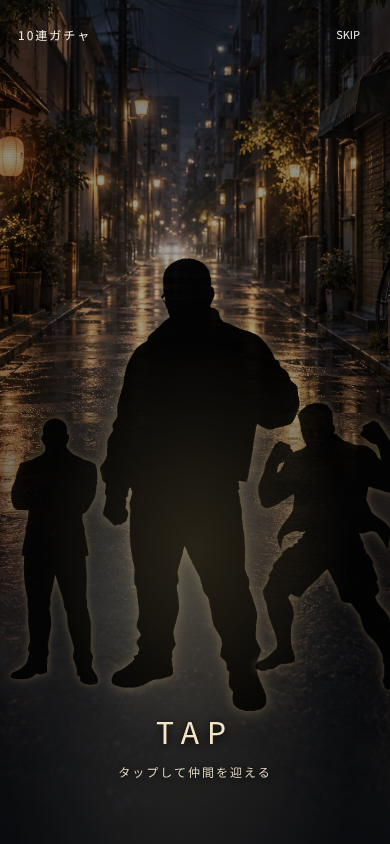
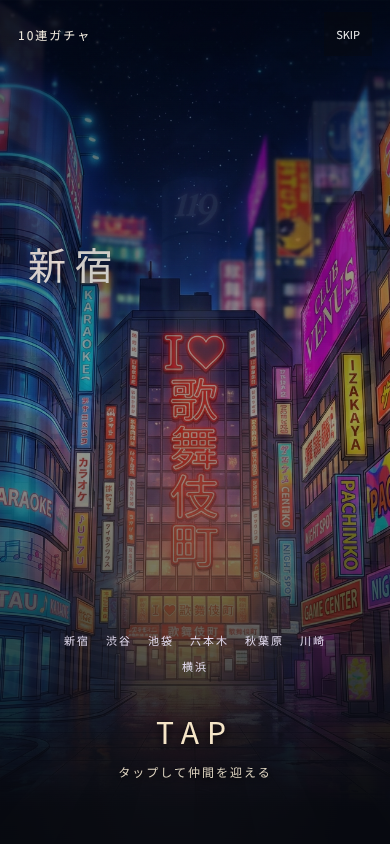
Refine gacha with seven neon towns, canonical badges and SSR arrival transition

diff --git a/src/app/components/gacha/CharacterGachaPresentation.tsx b/src/app/components/gacha/CharacterGachaPresentation.tsx
@@ -8,6 +8,7 @@ import OutlawButton from "../ui/OutlawButton";
 import { CHARACTERS_MASTER } from "@/utils/game_constants";
 import { getCharacterLocationBackground } from "@/utils/characterVisualAssets";
 import { resolveCharacterGachaQuote } from "@/domain/presentation/characterGachaQuotes";
+import { getRarityBadgeAsset, getAcquisitionBadgeAsset } from "@/utils/rarityAssets";
 import "./CharacterGachaPresentation.css";
 
 export type CharacterGachaResult = {
@@ -22,7 +23,7 @@ type Props = {
   onClose: () => void;
   playSound: (sound: "GACHA_REVEAL" | "GACHA_SR" | "GACHA_SSR") => void;
 };
-type Stage = "OPENING" | "BURST" | "QUOTE" | "REVEAL" | "SETTLED" | "SUMMARY";
+type Stage = "OPENING" | "BURST" | "QUOTE" | "IGNITION" | "REVEAL" | "SETTLED" | "SUMMARY";
 const motionQuery = "(prefers-reduced-motion: reduce)";
 const subscribeMotion = (notify: () => void) => {
   const media = window.matchMedia(motionQuery);
@@ -34,7 +35,17 @@ const town = (result: CharacterGachaResult) => getCharacterLocationBackground(CH
 const outcome = (result: CharacterGachaResult) => result.convertReward === "新規獲得" ? "NEW" : result.convertReward || "獲得";
 const number = (value: number | undefined) => typeof value === "number" && Number.isFinite(value) ? value.toLocaleString("ja-JP") : "—";
 
-const ARRIVAL_BACKGROUND = "/gacha/arrival/tokyo-alley.webp";
+const CITIES = ["新宿", "渋谷", "池袋", "六本木", "秋葉原", "川崎", "横浜"];
+const ARRIVAL_BACKGROUND = getCharacterLocationBackground("渋谷");
+const acquisitionBadge = (result: CharacterGachaResult) => getAcquisitionBadgeAsset(result.convertReward === "新規獲得" ? "NEW" : "AWAKENING", result.awakeningLevel);
+
+function ResultBadges({ result }: { result: CharacterGachaResult }) {
+  const acquired = acquisitionBadge(result);
+  return <span className="cg-existing-badges">
+    <img className="cg-rarity-badge" src={getRarityBadgeAsset(result.rarity)} alt={result.rarity} />
+    {acquired && <img className="cg-acquisition-badge" src={acquired} alt={result.convertReward === "新規獲得" ? "NEW" : `覚醒 +${result.awakeningLevel}`} />}
+  </span>;
+}
 
 // 全画面のデコード完了後にのみ描画。子要素ごとの非同期表示を作らない。
 function StandingArt({ result, variant = "reveal", background = false }: { result: CharacterGachaResult; variant?: "reveal" | "gacha-result-compact"; background?: boolean }) {
@@ -55,8 +66,8 @@ function StandingArt({ result, variant = "reveal", background = false }: { resul
 export default function CharacterGachaPresentation(props: Props) {
   const [textOnly, setTextOnly] = useState(false);
   const readiness = useScreenReadiness({ assets: [
-    { src: ARRIVAL_BACKGROUND },
-    ...props.results.flatMap((result) => [{ src: result.imageUrl }, { src: town(result) }]),
+    ...CITIES.map((city) => ({ src: getCharacterLocationBackground(city) })),
+    ...props.results.flatMap((result) => [{ src: result.imageUrl }, { src: town(result) }, { src: getRarityBadgeAsset(result.rarity) }, ...(acquisitionBadge(result) ? [{ src: acquisitionBadge(result)! }] : [])]),
   ] });
   if (textOnly) return <div className="cg-overlay"><section className="cg-loading" role="dialog" aria-modal="true" aria-label="獲得結果">
     <h2>獲得結果</h2><ol>{props.results.map((result, index) => <li key={index}>{result.rarity} {result.name} / {outcome(result)}</li>)}</ol>
@@ -131,7 +142,7 @@ function ReadyCharacterGacha({ results, tutorial, onReveal, onClose, playSound, 
   useEffect(() => {
     if (stage !== "QUOTE" || !sceneReady) return;
     if (reducedMotion || letters >= quote.length) {
-      const timer = window.setTimeout(() => setStage("REVEAL"), reducedMotion ? 0 : 600);
+      const timer = window.setTimeout(() => setStage(reducedMotion ? "REVEAL" : "IGNITION"), reducedMotion ? 0 : 600);
       return () => window.clearTimeout(timer);
     }
     const timer = window.setTimeout(() => setLetters((length) => length + 1), 38);
@@ -139,9 +150,15 @@ function ReadyCharacterGacha({ results, tutorial, onReveal, onClose, playSound, 
   }, [stage, letters, quote, reducedMotion, sceneReady]);
 
   useEffect(() => {
+    if (stage !== "IGNITION" || !sceneReady) return;
+    const timer = window.setTimeout(() => setStage("REVEAL"), reducedMotion ? 0 : 480);
+    return () => window.clearTimeout(timer);
+  }, [stage, sceneReady, reducedMotion]);
+
+  useEffect(() => {
     if (stage !== "REVEAL" || !sceneReady) return;
     callbacks.current.playSound(rarity === "SSR" ? "GACHA_SSR" : rarity === "SR" ? "GACHA_SR" : "GACHA_REVEAL");
-    const timer = window.setTimeout(() => setStage("SETTLED"), reducedMotion ? 0 : rarity === "SSR" ? 1050 : rarity === "SR" ? 750 : 450);
+    const timer = window.setTimeout(() => setStage("SETTLED"), reducedMotion ? 0 : rarity === "SSR" ? 1500 : rarity === "SR" ? 750 : 450);
     return () => window.clearTimeout(timer);
   }, [stage, rarity, index, reducedMotion, sceneReady]);
 
@@ -156,8 +173,8 @@ function ReadyCharacterGacha({ results, tutorial, onReveal, onClose, playSound, 
     if (now - lastTap.current < 220) return;
     lastTap.current = now;
     if (stage === "OPENING") { announce(); setStage("BURST"); }
-    else if (stage === "QUOTE") { if (letters < quote.length) setLetters(quote.length); else setStage("REVEAL"); }
-    else if (stage === "REVEAL") setStage("SETTLED");
+    else if (stage === "QUOTE") { if (letters < quote.length) setLetters(quote.length); else setStage(reducedMotion ? "REVEAL" : "IGNITION"); }
+    else if (stage === "IGNITION" || stage === "REVEAL") setStage("SETTLED");
     else if (stage === "SETTLED") {
       if (reviewing || index + 1 >= results.length) { setReviewing(false); setStage("SUMMARY"); }
       else { const next = results[index + 1]; setIndex(index + 1); setLetters(0); setStage(next.rarity.toUpperCase() === "SSR" && resolveCharacterGachaQuote(next.characterId) ? "QUOTE" : "REVEAL"); }
@@ -184,7 +201,8 @@ function ReadyCharacterGacha({ results, tutorial, onReveal, onClose, playSound, 
       <div className="cg-atmosphere" aria-hidden="true" />
       {stage !== "SUMMARY" && <header className="cg-top"><span>{opening ? `${results.length}連ガチャ` : `${index + 1} / ${results.length}`}</span><button type="button" onClick={skip}>{reviewing ? "一覧へ戻る" : "SKIP"}</button></header>}
       {opening ? <button type="button" className="cg-opening" onClick={tap} disabled={stage === "BURST"} aria-label="ガチャ結果を開く">
-        <div className="cg-approach" aria-hidden="true">{results.slice(0, 3).map((result, i) => <img key={i} src={result.imageUrl} alt="" style={{ "--person": i } as React.CSSProperties} />)}</div>
+        <div className="cg-city-tour" aria-hidden="true">{CITIES.map((city, i) => <div className="cg-city-scene" key={city} style={{ "--city-index": i } as React.CSSProperties}><img src={getCharacterLocationBackground(city)} alt="" /><span>{city}</span></div>)}</div>
+        <div className="cg-city-names" aria-label="7つの街">{CITIES.map((city) => <span key={city}>{city}</span>)}</div>
         <div className="cg-headlight" aria-hidden="true" />
         <div className="cg-opening-copy"><strong>TAP</strong><small>タップして仲間を迎える</small></div>
       </button> : stage === "SUMMARY" ? <section className="cg-summary">
@@ -193,15 +211,16 @@ function ReadyCharacterGacha({ results, tutorial, onReveal, onClose, playSound, 
         <div className={`cg-grid ${results.length === 1 ? "cg-single" : ""}`}>
           {results.map((result, i) => <button type="button" key={`${result.characterId}-${i}`} onClick={() => showDetail(i)} className={`cg-mini cg-${result.rarity.toLowerCase()}`} data-result-index={i} data-character-id={result.characterId} aria-label={`${result.rarity} ${result.name} ${outcome(result)} 詳細を見る`}>
             <StandingArt result={result} variant="gacha-result-compact" />
-            <b className="cg-mini-rarity">{result.rarity}</b><span className="cg-mini-name">{result.name}</span><small className={outcome(result) === "NEW" ? "cg-new" : ""}>{outcome(result)}</small>
+            <ResultBadges result={result} /><span className="cg-mini-name">{result.name}</span><small className={outcome(result) === "NEW" ? "cg-new" : ""}>{outcome(result)}</small>
           </button>)}
         </div>
         <p className="cg-summary-hint">仲間をタップして詳細を見る</p>
         <OutlawButton variant="primary" className="cg-continue" onClick={() => callbacks.current.onClose()}>{tutorial ? "編成へ進む" : "ガチャへ戻る"}</OutlawButton>
-      </section> : <button type="button" className={`cg-reveal ${stage === "SETTLED" ? "is-settled" : ""}`} onClick={tap} aria-label={stage === "QUOTE" ? "セリフを表示して登場演出へ" : `${current.name} ${reviewing ? "一覧へ戻る" : "タップして次へ"}`} data-character-id={stage === "QUOTE" ? undefined : current.characterId} data-presentation-state={stage === "QUOTE" ? "SSR_QUOTE" : `${rarity}_REVEAL`}>
+      </section> : <button type="button" className={`cg-reveal ${stage === "SETTLED" ? "is-settled" : ""}`} onClick={tap} aria-label={stage === "QUOTE" || stage === "IGNITION" ? "セリフを表示して登場演出へ" : `${current.name} ${reviewing ? "一覧へ戻る" : "タップして次へ"}`} data-character-id={stage === "QUOTE" || stage === "IGNITION" ? undefined : current.characterId} data-presentation-state={stage === "QUOTE" ? "SSR_QUOTE" : stage === "IGNITION" ? "SSR_IGNITION" : `${rarity}_REVEAL`}>
         {stage === "QUOTE" ? <div className="cg-quote-intro"><span aria-hidden="true">SSR</span><blockquote aria-label={quote}><span aria-hidden="true">{quote.slice(0, reducedMotion ? quote.length : letters)}</span></blockquote><small>{letters < quote.length ? "タップで全文表示" : "TAP"}</small></div> : <div className="cg-reveal-content" key={index}>
           <div className="cg-portrait"><StandingArt result={current} /></div>
-          <div className="cg-reveal-copy"><div className="cg-rarity-line"><b>{rarity}</b><span className={outcome(current) === "NEW" ? "cg-new" : ""}>{outcome(current)}</span></div>
+          {rarity === "SSR" && <div className="cg-ssr-transition" aria-hidden="true"><i /><i /><i /><blockquote>{quote}</blockquote></div>}
+          <div className="cg-reveal-copy"><div className="cg-rarity-line"><ResultBadges result={current} /><span className={outcome(current) === "NEW" ? "cg-new" : ""}>{outcome(current)}</span></div>
             <h2>{current.name}</h2><p className="cg-origin">{[current.role, current.attribute].filter(Boolean).join(" / ")}</p>
             {quote && <blockquote>{quote}</blockquote>}
             <dl className="cg-stats" aria-label="初期パラメータ">{(["hp", "atk", "def"] as const).map((key) => <div key={key}><dt>{key.toUpperCase()}</dt><dd>{number(current[key])}</dd></div>)}</dl>

diff --git a/tests/e2e/gacha-character-v3.spec.ts b/tests/e2e/gacha-character-v3.spec.ts
@@ -7,12 +7,15 @@ for (const viewport of [{ width: 390, height: 844 }, { width: 320, height: 568 }
     const shell = page.locator('[data-gacha-presentation="arrival"]');
     await expect(shell).toHaveAttribute("data-stage", "OPENING");
     await expect(page.locator(".cg-card-back")).toHaveCount(0);
-    await expect(page.locator(".cg-approach img")).toHaveCount(3);
+    await expect(page.locator(".cg-approach")).toHaveCount(0);
+    await expect(page.locator(".cg-city-scene img")).toHaveCount(7);
     await page.getByRole("button", { name: "SKIP", exact: true }).click();
     await expect(shell).toHaveAttribute("data-stage", "SUMMARY");
     const cards = page.locator(".cg-mini");
     await expect(cards).toHaveCount(10);
-    expect(await cards.locator(".cg-mini-rarity").allTextContents()).toEqual(["N", "R", "SR", "SSR", "N", "SR", "R", "SSR", "R", "SR"]);
+    await expect(cards.nth(5).locator(".cg-acquisition-badge")).toHaveAttribute("src", "/ui/rarity/badge-awakening-plus-1.png");
+    await expect(cards.nth(5).locator("small")).toContainText("覚醒進捗 +1");
+    expect(await cards.locator(".cg-rarity-badge").evaluateAll((nodes) => nodes.map((node) => node.getAttribute("alt")))).toEqual(["N", "R", "SR", "SSR", "N", "SR", "R", "SSR", "R", "SR"]);
     const rects = await cards.evaluateAll((nodes) => nodes.map((node) => ({x: node.getBoundingClientRect().x, y: node.getBoundingClientRect().y})));
     expect(new Set(rects.slice(0, 5).map((rect) => rect.y)).size).toBe(1);
     expect(rects[5].y).toBeGreaterThan(rects[0].y);
@@ -20,7 +23,7 @@ for (const viewport of [{ width: 390, height: 844 }, { width: 320, height: 568 }
     const expectedId = await cards.nth(7).getAttribute("data-character-id");
     await cards.nth(7).click();
     await expect(page.locator(".cg-reveal")).toHaveAttribute("data-character-id", expectedId!);
-    await expect(page.locator(".cg-reveal blockquote")).not.toBeEmpty();
+    await expect(page.locator(".cg-reveal-copy>blockquote")).not.toBeEmpty();
     await page.getByRole("button", { name: "一覧へ戻る", exact: true }).click();
     await expect(cards).toHaveCount(10);
     await page.getByRole("button", { name: "編成へ進む" }).click();
@@ -59,15 +62,35 @@ test("N/R/SR advance directly; fast taps complete animation without skipping car
   await reveal.dblclick();
   await expect(page.locator(".cg-shell")).toHaveAttribute("data-stage", "SETTLED");
   await expect(page.locator(".cg-top>span")).toHaveText("1 / 10");
-  await expect(reveal.locator("blockquote")).not.toBeEmpty();
+  await expect(reveal.locator(".cg-reveal-copy>blockquote")).not.toBeEmpty();
   await page.clock.runFor(250);
   await reveal.click();
   await expect(page.locator(".cg-top>span")).toHaveText("2 / 10");
   await page.clock.runFor(800);
   await reveal.click();
   await expect(page.locator(".cg-top>span")).toHaveText("3 / 10");
-  await expect(reveal.locator("blockquote")).not.toBeEmpty();
+  await expect(reveal.locator(".cg-reveal-copy>blockquote")).not.toBeEmpty();
   await expect(page.locator(".gacha-character-logo-gate")).toHaveCount(0);
+});
+
+test("SSR quote ignites before identity reveal and existing badges appear", async ({ page }) => {
+  await page.goto("/qa/presentation?scenario=gacha-character-v3&single=true&rarity=SSR");
+  await page.clock.install();
+  await page.getByRole("button", { name: "ガチャ結果を開く", exact: true }).click();
+  await page.clock.runFor(650);
+  await expect(page.locator(".cg-shell")).toHaveAttribute("data-stage", "QUOTE");
+  await page.locator(".cg-reveal").click();
+  await page.clock.runFor(610);
+  await expect(page.locator(".cg-shell")).toHaveAttribute("data-stage", "IGNITION");
+  await expect(page.locator(".cg-reveal")).not.toHaveAttribute("data-character-id");
+  await expect(page.locator(".cg-portrait")).toBeHidden();
+  await expect(page.locator(".cg-ssr-transition")).toBeVisible();
+  await page.clock.runFor(490);
+  await expect(page.locator(".cg-shell")).toHaveAttribute("data-stage", "REVEAL");
+  await expect(page.locator(".cg-rarity-badge")).toHaveAttribute("src", "/ui/rarity/rarity-badge-ssr.png");
+  await page.clock.runFor(1510);
+  await expect(page.locator(".cg-shell")).toHaveAttribute("data-stage", "SETTLED");
+  await expect(page.locator(".cg-ssr-transition")).toBeHidden();
 });
 
 test("reduced motion and keyboard keep controls reachable", async ({ page }) => {
@@ -91,7 +114,7 @@ test("cold images gate the entire scene and arrival animation", async ({ page })
   await expect(page.locator(".cg-city, .cg-approach, .cg-reveal")).toHaveCount(0);
   release();
   await expect(page.locator(".cg-shell")).toHaveAttribute("data-stage", "OPENING");
-  expect(await page.locator(".cg-approach img").evaluateAll((images) => images.every((image) => (image as HTMLImageElement).complete && (image as HTMLImageElement).naturalWidth > 0))).toBe(true);
+  expect(await page.locator(".cg-city-scene img").evaluateAll((images) => images.every((image) => (image as HTMLImageElement).complete && (image as HTMLImageElement).naturalWidth > 0))).toBe(true);
   await page.getByRole("button", { name: "SKIP", exact: true }).click();
   await expect(page.locator(".cg-summary")).toBeVisible();
   expect(await page.locator(".cg-summary img").evaluateAll((images) => images.every((image) => (image as HTMLImageElement).complete && (image as HTMLImageElement).naturalWidth > 0))).toBe(true);
@@ -99,14 +122,14 @@ test("cold images gate the entire scene and arrival animation", async ({ page })
 });
 
 test("background failure supports image-only retry and text results", async ({ page }) => {
-  await page.route("**/gacha/arrival/tokyo-alley.webp", (route) => route.abort());
+  await page.route("**/bg/bg_street_yokohama.jpg", (route) => route.abort());
   await page.goto("/qa/presentation?scenario=gacha-character-v3");
   await expect(page.getByRole("status")).toHaveText("画像を読み込めませんでした");
   await expect(page.locator(".cg-city")).toHaveCount(0);
-  await page.unroute("**/gacha/arrival/tokyo-alley.webp");
+  await page.unroute("**/bg/bg_street_yokohama.jpg");
   await page.getByRole("button", { name: "画像を再読み込み" }).click();
   await expect(page.locator(".cg-shell")).toHaveAttribute("data-stage", "OPENING");
-  await page.route("**/gacha/arrival/tokyo-alley.webp", (route) => route.abort());
+  await page.route("**/bg/bg_street_yokohama.jpg", (route) => route.abort());
   await page.reload();
   await page.getByRole("button", { name: "獲得結果を文字で確認" }).click();
   await expect(page.locator(".cg-loading li")).toHaveCount(10);

diff --git a/src/app/components/gacha/CharacterGachaPresentation.css b/src/app/components/gacha/CharacterGachaPresentation.css
@@ -57,3 +57,42 @@
 .cg-city{width:100%;height:100%;object-fit:cover}
 .cg-waiting{visibility:hidden}.cg-waiting *{animation-play-state:paused!important}
 .cg-scene-loading{position:absolute;inset:0;margin:auto;z-index:1}
+
+/* 既存7街の背景を短いクロスフェードで巡る。見切るまで待つ必要はない。 */
+.cg-city-tour{position:absolute;inset:0;pointer-events:none}
+.cg-city-scene{position:absolute;inset:0;opacity:0;animation:cg-city-cycle 8.4s linear infinite;animation-delay:calc(var(--city-index) * 1.2s)}
+.cg-city-scene:first-child{opacity:1}
+.cg-city-scene img{width:100%;height:100%;object-fit:cover;filter:brightness(.66) saturate(1.1)}
+.cg-city-scene:after{content:"";position:absolute;inset:0;background:linear-gradient(0deg,#070910 4%,transparent 50%,#03071155)}
+.cg-city-scene>span{position:absolute;left:28px;top:28%;z-index:1;font-size:38px;letter-spacing:9px;text-shadow:0 0 24px #000;color:#f4efe6}
+.cg-city-names{position:relative;z-index:2;display:flex;flex-wrap:wrap;justify-content:center;gap:10px 16px;max-width:300px;margin-bottom:35px;font-size:11px;letter-spacing:2px;color:#e0d9ed}
+.cg-headlight{background:radial-gradient(ellipse at 50% 55%,color-mix(in srgb,var(--cg-accent) 30%,transparent),transparent 60%)}
+.cg-stage-burst .cg-city-tour{animation:cg-city-depart .62s ease-in both}
+.cg-existing-badges{display:flex;align-items:center;justify-content:center;gap:6px;min-height:24px}
+.cg-existing-badges img{object-fit:contain;display:block}
+.cg-rarity-badge{width:64px;height:40px}.cg-acquisition-badge{width:60px;height:36px}
+.cg-mini .cg-existing-badges{gap:1px;height:25px;min-height:25px;margin-top:2px}
+.cg-mini .cg-rarity-badge{width:48%;height:25px}.cg-mini .cg-acquisition-badge{width:48%;height:24px}
+.cg-rarity-line .cg-existing-badges{justify-content:flex-start;flex-shrink:0}
+.cg-ssr-transition{display:none;position:absolute;inset:0;z-index:3;pointer-events:none;overflow:hidden}
+.cg-stage-ignition .cg-ssr-transition,.cg-ssr.cg-stage-reveal .cg-ssr-transition{display:block}
+.cg-stage-ignition .cg-portrait,.cg-stage-ignition .cg-reveal-copy{visibility:hidden;animation:none}
+.cg-ssr-transition blockquote{position:absolute;inset:24% 28px auto;color:#f9df9e;text-align:center;font-size:25px;line-height:1.85}
+.cg-stage-ignition .cg-ssr-transition blockquote{animation:cg-quote-away .48s ease-in both}
+.cg-stage-reveal .cg-ssr-transition blockquote{display:none}
+.cg-ssr-transition i{position:absolute;inset:-20%;opacity:0;background:linear-gradient(115deg,transparent 43%,#ecd08288 49%,#ffffdebb 50%,#a687e677 52%,transparent 58%);mix-blend-mode:screen}
+.cg-stage-ignition .cg-ssr-transition i:first-child{animation:cg-neon-sweep .48s ease-in both}
+.cg-ssr.cg-stage-reveal .cg-ssr-transition i:nth-child(2){animation:cg-neon-sweep .8s ease-out both}
+.cg-ssr.cg-stage-reveal .cg-ssr-transition i:nth-child(3){background:radial-gradient(ellipse at 50% 30%,#e6c88b66,transparent 65%);animation:cg-impact-glow .9s ease-out both}
+.cg-ssr.cg-stage-reveal .cg-portrait{animation:cg-premium-arrive 1.15s cubic-bezier(.16,.7,.22,1) both}
+.cg-ssr.cg-stage-reveal .cg-rarity-line,.cg-ssr.cg-stage-reveal h2{animation:cg-copy .4s .45s both}
+.cg-ssr.cg-stage-reveal .cg-stats{animation:cg-copy .4s .95s both}
+.cg-stage-ignition .cg-city{animation:cg-city-charge .48s ease-in both}
+@keyframes cg-city-cycle{0%,13%{opacity:1}16%,97%{opacity:0}100%{opacity:1}}
+@keyframes cg-city-depart{to{transform:scale(1.1);filter:brightness(1.5);opacity:0}}
+@keyframes cg-quote-away{to{opacity:0;transform:translateY(-8px);filter:blur(3px)}}
+@keyframes cg-neon-sweep{0%{opacity:0;transform:translateX(-65%)}35%{opacity:.9}100%{opacity:0;transform:translateX(65%)}}
+@keyframes cg-impact-glow{from{opacity:.8}to{opacity:0}}
+@keyframes cg-city-charge{to{filter:brightness(1.15) saturate(1.4)}}
+@keyframes cg-premium-arrive{from{opacity:0;transform:translateY(20px) scale(1.06);filter:brightness(1.8)}35%{opacity:1}to{opacity:1;transform:none;filter:brightness(1)}}
+@media(prefers-reduced-motion:reduce){.cg-city-scene{animation:none!important;opacity:0}.cg-city-scene:first-child{opacity:1}.cg-ssr-transition{display:none!important}.cg-shell *{animation:none!important}}

diff --git a/tests/e2e/m9-tutorial.spec.ts b/tests/e2e/m9-tutorial.spec.ts
@@ -152,7 +152,7 @@ async function revealTutorialTenPull(page: import("@playwright/test").Page, capt
     await expect(reveal.locator(".cg-stats dt")).toHaveText(["HP", "ATK", "DEF"]);
     await expect.poll(() => reveal.locator(".cg-stats dd").allTextContents()).not.toContain("—");
     await expect(reveal).not.toContainText(/SPD|LUK|戦闘力/);
-    await expect(reveal.locator("blockquote")).not.toBeEmpty();
+    await expect(reveal.locator(".cg-reveal-copy>blockquote")).not.toBeEmpty();
     await expect(reveal.locator(".cg-rarity-line>span")).not.toBeEmpty();
     await expect(page.locator(".cg-city")).toHaveAttribute("src", /bg_street_/);
     if (await reveal.getAttribute("data-presentation-state") === "SSR_REVEAL") ssrCount += 1;
@@ -493,7 +493,7 @@ test("free gacha presents one CTA, feedback, result assets, and formation connec
     await page.screenshot({ path: test.info().outputPath(`m9-1-gacha-result-${width}.png`), fullPage: true });
   }
   await expect(page.locator(".cg-mini .character-presentation-gacha-result-compact")).toHaveCount(10);
-  await expect(page.locator(".cg-mini .cg-mini-rarity")).toHaveCount(10);
+  await expect(page.locator(".cg-mini .cg-rarity-badge")).toHaveCount(10);
   await expect(page.locator(".cg-mini").filter({ hasText: "GEAR" })).toHaveCount(0);
   await expect(page.locator(".cg-mini .character-presentation img").first()).toBeVisible();
   const characterImage = await page.locator(".cg-mini .character-presentation img").first().evaluate((image) => {

diff --git a/tests/e2e/m9x-cold-start.spec.ts b/tests/e2e/m9x-cold-start.spec.ts
@@ -61,7 +61,7 @@ test("tutorial ten-pull guarantees slot 10 SSR and visible Growth precedes forma
     await expect(page.locator(".cg-top>span")).toHaveText(`${index + 1} / 10`);
     await expect(page.locator(".cg-shell")).toHaveAttribute("data-stage", "SETTLED");
     await expect(reveal.locator(".character-presentation-character")).toBeVisible();
-    await expect(reveal.locator("blockquote")).not.toBeEmpty();
+    await expect(reveal.locator(".cg-reveal-copy>blockquote")).not.toBeEmpty();
     await reveal.click();
   }
   await expect(reveal).toHaveAttribute("data-presentation-state", "SSR_QUOTE");
@@ -74,7 +74,7 @@ test("tutorial ten-pull guarantees slot 10 SSR and visible Growth precedes forma
   await reveal.click();
   await expect(page.locator(".cg-mini")).toHaveCount(10);
   await expect(page.locator(".cg-mini .character-presentation-gacha-result-compact")).toHaveCount(10);
-  await expect(page.locator(".cg-mini .cg-mini-rarity")).toHaveCount(10);
+  await expect(page.locator(".cg-mini .cg-rarity-badge")).toHaveCount(10);
   await expect(page.locator(".cg-mini>small")).toHaveCount(10);
   await expect(page.locator(".cg-mini.cg-ssr")).toHaveCount(1);
   for (const width of [375, 390, 430]) {

diff --git a/tests/e2e/gacha-asset-transition.spec.ts b/tests/e2e/gacha-asset-transition.spec.ts
@@ -29,7 +29,7 @@ test("character arrival and SKIP remain safe at iPhone 14 geometry", async ({ pa
   const fixture = await openTransitionFixture(page, { delay: 500 });
   await page.locator('[data-gacha-category="CHARACTER"]').click();
   await page.getByRole("button", { name: "10回 10,000キャッシュ" }).click();
-  await expect(page.locator(".cg-approach img")).toHaveCount(3);
+  await expect(page.locator(".cg-city-scene img")).toHaveCount(7);
   const skip = page.getByRole("button", { name: "SKIP", exact: true });
   await expect(skip).toBeVisible();
   const rect = await skip.boundingBox();

diff --git a/docs/qa/gacha-presentation-20260908/README.md b/docs/qa/gacha-presentation-20260908/README.md
@@ -5,7 +5,9 @@
 ## 今回の変更
 
 - キャラクター画像は既存立ち絵のみ。描き起こし・ポーズ変更なし。
-- 人物なしの夜の路地背景を追加。開始は実際の獲得キャラの立ち絵を黒い人影として配置。
+- 導入は既存の新宿・渋谷・池袋・六本木・秋葉原・川崎・横浜の背景をクロスフェード。シルエットは撤去。7街を8.4秒で巡回するが、タップは最初から可能。
+- 既存のレアリティ・NEW・覚醒段階バッジを再利用。覚醒は結果が持つ実段階を表示し、進捗増加を段階上昇として扱わない。
+- SSRはセリフ全文後600msの余韻、480msの光の走査、立ち絵・街の発光・登場SE、名前・バッジ・能力値の順に展開。登場は1500msで落ち着き、タップで短縮可能。reduced motionでは動きを省略。
 - カード裏面・扇状配置・金属フレームを撤去。登場は顔・表情を大きく見せ、名前と確定セリフを重視。
 - 一覧上部は獲得した仲間の立ち絵から最大3人を表示（最高レアリティを中央）。下の10件は取得順を保った5列2行の顔一覧。
 - タップで演出完了、次タップで次へ、SKIP、人物の再表示、編成CTAは維持。
@@ -13,7 +15,7 @@
 
 ## 読み込み修正
 
-人物だけ・背景だけが先行することを防ぐため、立ち絵・出身地背景・追加背景の先読みとデコードをまとめて待つ。
+人物だけ・背景だけが先行することを防ぐため、立ち絵・7街背景・既存バッジの先読みとデコードをまとめて待つ。
 さらに実際に表示するDOMの画像もデコード完了まで画面を非表示にし、登場・セリフのタイマーを停止する。
 これによりブラウザーが先読み画像を再取得する場合も、完成した画面を一括表示する。
 12秒で画像準備を打ち切り、画像だけの再読み込みを案内。待機中・取得失敗時も獲得結果を文字で確認できる。再抽選はしない。
@@ -22,7 +24,7 @@
 
 - Next.js preview設定の本番ビルド・TypeScript・実装ESLintエラーなし。
 - 既存SSR10体および全60体セリフのマスタチェック成功。
-- Playwright 9件成功: キャラ1回／10回、390×844／320×568、取得順、詳細、編成への遷移、再実行、SSR文字送り、SKIP、連打、N/R/SRの連続紹介、reduced motion、キーボード、初回画像遅延、背景取得失敗と再試行・文字結果。
+- Playwright 9件成功: キャラ1回／10回、390×844／320×568、取得順、詳細、編成への遷移、再実行、SSR文字送り・切り替え・バッジ、SKIP、連打、N/R/SRの連続紹介、reduced motion、キーボード、初回画像遅延、背景取得失敗と再試行・文字結果。
 - 画面撮影時のJavaScriptエラー0・欠落画像0。撮影時のみ日本語フォントを追加（アプリ依存関係への追加なし）。
 - 実機Safari・実音声・本番抽選はユーザー確認待ち。本番未反映。
 
@@ -30,13 +32,10 @@ QA URLのパス: `/qa/presentation?scenario=gacha-character-v3`
 `single=true` / `rarity=N|R|SR|SSR` / `tutorial=false` で単発・レアリティ・通常ガチャを確認可能。
 本番では従来どおりQAページは404。
 
-## 追加画像素材
+## 使用画像素材
 
-`public/gacha/arrival/tokyo-alley.webp` — 1024×1536、319,076 bytes。
-内蔵画像生成で制作し、WebPに変換。人物を含まないため、既存立ち絵と動的に合成できる。
-
-制作プロンプト:
-Production background asset for TRIBE NEON modern Tokyo street character meeting animation, portrait 1024x1536. Beautiful premium hand-painted Japanese game background, realistic illustrated environment, nighttime narrow Tokyo side street, warm amber lamps along aged concrete and shopfronts, rain-wet asphalt with soft reflections, subtle atmospheric ground mist at bottom, strong cinematic depth, vanishing point center at 42% height, lower central 65% clear empty space for compositing existing standing characters. Indirect headlights far in background, natural warm rim-light mood with muted blue shadows. Detailed atmospheric art, grounded contemporary Japan, not cyberpunk or science fiction. No humans, no silhouettes, no faces, no vehicles in foreground, no letters, no readable signs, no logos, no 109, no UI, no borders, no frames. Edge shops subdued to allow characters to dominate. Full bleed single background only. No triptych.
+背景は既存の `public/bg/bg_street_*.jpg` の7街、キャラは既存立ち絵、バッジは `public/ui/rarity/` を使用。
+前案の `public/gacha/arrival/tokyo-alley.webp` は今回の演出では使用しない。新しいキャラクター画像・ポーズ・カードフレームは追加しない。
 
 ![開始](opening.png)
 ![仲間一覧](summary.png)
